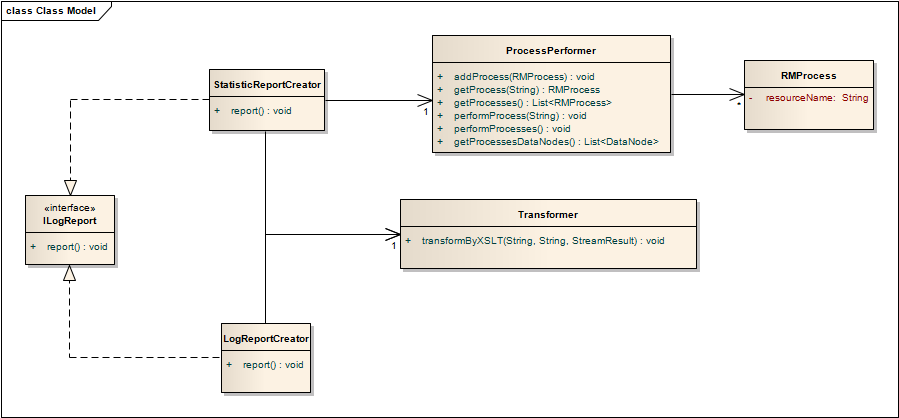
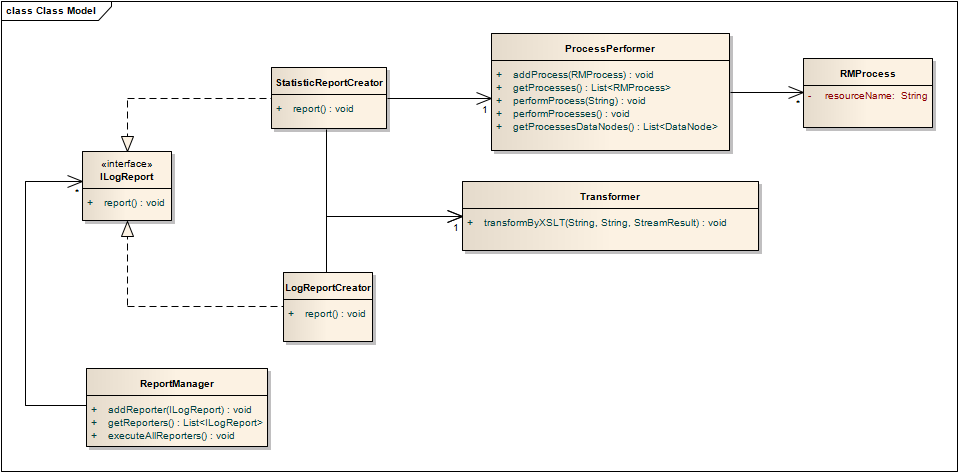
Added ReportManager, Modified XSL template for new XML format, minority changes, Schema statistics.png has changed

diff --git a/seage-experimenter/src/main/java/org/seage/experimenter/reporting/LogReportCreator.java b/seage-experimenter/src/main/java/org/seage/experimenter/reporting/LogReportCreator.java
@@ -13,20 +13,14 @@
  */
 package org.seage.experimenter.reporting;
 
-import com.rapidminer.RapidMiner;
 import java.io.File;
 import java.io.FileOutputStream;
 import java.io.FilenameFilter;
 import java.util.Arrays;
 import org.seage.data.file.FileHelper;
 import javax.xml.transform.stream.*;
-import com.rapidminer.Process;
-import com.rapidminer.example.ExampleSet;
-import com.rapidminer.operator.Operator;
-import java.util.Collection;
-import org.seage.data.DataNode;
-import org.seage.experimenter.ExampleSetConverter;
-import org.seage.logging.LogHelper;
+import java.util.logging.Level;
+import java.util.logging.Logger;
 //import org.seage.experimenter.ExampleSetConverter;
 
 /**
@@ -35,61 +29,28 @@ import org.seage.logging.LogHelper;
  */
 public class LogReportCreator implements ILogReport {
     
-    private static String _logPath = "output";
-    private static String _reportPath = "report";
-    private static String _csvHeader = "ExperimentID;ProblemID;AlgorithmID;InstanceID;ConfigID;SolutionValue;Time;";
-    private static final String XSL_TEMPLATE = "report2csv.xsl";
-    private static final String RAPIDMINER_PROCESS_FILE = "rm-report1-p1.rmp";
-    private static final String OUTPUT_CSV_FILE = "report.csv";
+    private static final String LOG_PATH            = "output";
+    private static final String REPORT_PATH         = "report";
+    private static final String XSL_TEMPLATE        = "report2csv.xsl";
+    private static final String OUTPUT_CSV_FILE     = "report.csv";    
+    private static final String CSV_HEADER          = "ExperimentID;ProblemID;AlgorithmID;InstanceID;ConfigID;SolutionValue;Time;";
+
+    public LogReportCreator() {}
     
-    public LogReportCreator()
-    {
-        RapidMiner.setExecutionMode( RapidMiner.ExecutionMode.EMBEDDED_WITHOUT_UI );//RapidMiner.ExecutionMode.EMBEDDED_WITHOUT_UI
-        RapidMiner.init();
-    }    
-   
+    @Override
     public void report() throws Exception
     {
         createReport();
-//        reportRapidMiner();
     }
     
-    private void reportRapidMiner() throws Exception
-    {        
-//        Process process = new Process( getClass().getResourceAsStream( RAPIDMINER_PROCESS_FILE ) );
-//        process.setProcessLocation( new FileProcessLocation( new File(".") ) );
-//        System.out.println(process.getRootOperator().createProcessTree(0));
-//                       System.out.println("RUN"); 
-//        process.run();
-
-//        Collection<Operator> ops = process.getAllOperators();
-//        ExampleSet ex = null;
-//
-//        for(Operator op : ops)
-//        {
-//            System.out.println(op.getName());
-//            if(op.getName().equals("Sort (2)"))
-//                ex = op.getOutputPorts().getPortByName("example set output").getData();
-//        }
-//        
-//        DataNode dn = ExampleSetConverter.convertToDataNode(ex);
-//        
-//        ExampleSet exampleSet = ExampleSetConverter.convertToExampleSet(dn);
-//        
-//        DataNode dn1 = ExampleSetConverter.convertToDataNode(exampleSet);
-//
-//        ExampleSet exampleSet1 = ExampleSetConverter.convertToExampleSet(dn1);
-//
-//        System.out.println(exampleSet1);
-    }
-
     private void createReport() throws Exception
     {
-        System.out.println("Creating reports ...");
+        Logger.getLogger(ProcessPerformer.class.getName()).log(Level.INFO, "Creating reports ...");
+        Logger.getLogger(ProcessPerformer.class.getName()).fine("Creating reports ...");
         
-        File logDir = new File(_logPath);
+        File logDir = new File(LOG_PATH);
         
-        File reportDir = new File(_reportPath);
+        File reportDir = new File(REPORT_PATH);
         
         if(reportDir.exists())
             FileHelper.deleteDirectory(reportDir);
@@ -120,7 +81,7 @@ public class LogReportCreator implements ILogReport {
             sb.append("p").append(i).append(";");
         }        
 
-        outputStream.getOutputStream().write( ( _csvHeader + sb.append("\n").toString() ).getBytes() );
+        outputStream.getOutputStream().write( ( CSV_HEADER + sb.append("\n").toString() ).getBytes() );
 
         for(String dirName : logDir.list(filter))
         {            
@@ -139,7 +100,7 @@ public class LogReportCreator implements ILogReport {
                 }
                 catch(Exception e)
                 {
-                    System.out.println(xmlPath);
+                    Logger.getLogger(ProcessPerformer.class.getName()).fine(xmlPath);
                 }
             }            
         }        

diff --git a/seage-experimenter/src/main/java/org/seage/experimenter/reporting/ProcessPerformer.java b/seage-experimenter/src/main/java/org/seage/experimenter/reporting/ProcessPerformer.java
@@ -34,36 +34,27 @@ public class ProcessPerformer {
     
     private String EXAMPLESET_OUTPUT_PORT = "example set output";
     
-    private HashMap<String, RMProcess> _processes;
+    private List<RMProcess> _processes;
     
     private List<ExampleSet> _exampleSets;
     
     public ProcessPerformer()
     {
-        _processes = new HashMap<String, RMProcess>();
+        _processes = new ArrayList<RMProcess>();
         _exampleSets = new ArrayList<ExampleSet>();
+        
         RapidMiner.setExecutionMode( RapidMiner.ExecutionMode.EMBEDDED_WITHOUT_UI );
         RapidMiner.init();
     } 
     
     public void addProcess(RMProcess process)
     {
-        if(_processes.containsKey(process.getResourceName()))
-        {
-            //vyhodit vyjimku
-        }
-        
-        _processes.put(process.getResourceName(), process);
-    }
-    
-    public RMProcess getProcess(String name)
-    {
-        return _processes.get(name);
+        _processes.add( process );
     }
     
     public List<RMProcess> getProcesses()
     {
-        return new ArrayList<RMProcess>(_processes.values());
+        return _processes;
     }
     
     public ExampleSet performProcess(String resourceName) throws Exception
@@ -74,31 +65,23 @@ public class ProcessPerformer {
         // TODO: B - Info only for debug, after that they'll be removed
         System.out.println(process.getRootOperator().createProcessTree(0));
         
-        Logger.getLogger(ProcessPerformer.class.getName()).log(Level.INFO, "RUN");
+        Logger.getLogger(ProcessPerformer.class.getName()).log(Level.INFO, "RapidMiner Process RUNS");
         Logger.getLogger(ProcessPerformer.class.getName()).fine("RapidMiner Process RUNS");
         process.run();
-        
+       
         Collection<Operator> operators = process.getAllOperators();
         
         ExampleSet exampleSet = null;
-
         
         // TODO: B - Always is taken next to last operator
         int counter = 1;
         for(Operator operator : operators)
         {
-            System.out.println(operator.getName());
-            System.out.println(operators.size() +" - " + counter);
-            if( (operators.size() - 1) == counter)
+            if( ( operators.size() - 1 ) == counter)
             {
-                System.out.println(operator.getName()+"-----");
                 exampleSet = operator.getOutputPorts().getPortByName( EXAMPLESET_OUTPUT_PORT ).getData( ExampleSet.class );
                 _exampleSets.add( exampleSet );
-                break;
             }
-//            
-//            if(operator.getName().equals("Sort (2)"))
-//                ex = operator.getOutputPorts().getPortByName("example set output").getData();
             
             ++counter;
         }
@@ -107,7 +90,7 @@ public class ProcessPerformer {
     
     public void performProcesses() throws Exception
     {
-        for(RMProcess process : _processes.values())
+        for(RMProcess process : _processes)
         {
             this.performProcess( process.getResourceName() );
         }

diff --git a/seage-launcher/src/main/java/org/seage/Launcher.java b/seage-launcher/src/main/java/org/seage/Launcher.java
@@ -22,6 +22,7 @@ import org.seage.experimenter.Experimenter;
 import org.seage.logging.LogHelper;
 import org.seage.experimenter.reporting.ILogReport;
 import org.seage.experimenter.reporting.LogReportCreator;
+import org.seage.experimenter.reporting.ReportManager;
 import org.seage.experimenter.reporting.StatisticReportCreator;
 import org.seage.temp.AlgorithmTester;
 import org.seage.temp.ClasspathTest;
@@ -102,11 +103,17 @@ public class Launcher {
         }
         
         if (args[0].equals("-report")) {
-            ILogReport reporter = new LogReportCreator();
-            reporter.report();
             
-            reporter = new StatisticReportCreator();
-            reporter.report();
+            ReportManager reportManager = new ReportManager();
+            reportManager.addReporter(new LogReportCreator());
+            reportManager.addReporter(new StatisticReportCreator());
+            
+            reportManager.executeAllReporters();
+//            ILogReport reporter = new LogReportCreator();
+//            reporter.report();
+//            
+//            reporter = new StatisticReportCreator();
+//            reporter.report();
             
             return;
         }

diff --git a/seage-experimenter/src/main/java/org/seage/experimenter/reporting/ReportManager.java b/seage-experimenter/src/main/java/org/seage/experimenter/reporting/ReportManager.java
@@ -1,0 +1,46 @@
+/*******************************************************************************
+ * Copyright (c) 2009 Richard Malek and SEAGE contributors
+ * All rights reserved. This program and the accompanying materials
+ * are made available under the terms of the Common Public License v1.0
+ * which accompanies this distribution, and is available at
+ * http://seage.sourceforge.net/license/cpl-v10.html
+ *
+ * Contributors:
+ *     Jan Zmatlik
+ *     - Initial implementation
+ */
+package org.seage.experimenter.reporting;
+
+import java.util.ArrayList;
+import java.util.List;
+
+/**
+ *
+ * @author zmatlja1
+ */
+public class ReportManager {
+    
+    List<ILogReport> _reporters;
+
+    public ReportManager()
+    {
+        this._reporters = new ArrayList<ILogReport>();
+    }
+    
+    public void addReporter(ILogReport reporter)
+    {
+        this._reporters.add( reporter );
+    }
+    
+    public List<ILogReport> getReporters()
+    {
+        return _reporters;
+    }
+    
+    public void executeAllReporters() throws Exception
+    {
+        for(ILogReport reporter : _reporters)
+            reporter.report();
+    }
+    
+}

diff --git a/seage-experimenter/src/main/java/org/seage/experimenter/reporting/StatisticReportCreator.java b/seage-experimenter/src/main/java/org/seage/experimenter/reporting/StatisticReportCreator.java
@@ -73,9 +73,10 @@ public class StatisticReportCreator implements ILogReport
         File inputDataDir = new File( INPUT_DATA_PATH );
         inputDataDir.mkdir();
         
+        int k = 0;
         for(DataNode dataNode : _processPerformer.getProcessesDataNodes())
         {
-            XmlHelper.writeXml(dataNode, inputDataDir.getPath() + "/" + dataNode.getValueStr("name") + ".xml");
+//            XmlHelper.writeXml(dataNode, inputDataDir.getPath() + "/" + (++k) + ".xml");
         }
         
         File reportDir = new File( REPORT_PATH );
@@ -86,10 +87,10 @@ public class StatisticReportCreator implements ILogReport
 
         StreamResult outputStream = new StreamResult( new FileOutputStream( outputDir ) );
   
-//        for(String fileName : inputDataDir.list())
-//        {
-//            Transformer.getInstance().transformByXSLT(inputDataDir.getPath() + "/" + fileName, XSLTEMPLATE, outputStream);
-//        }
+        for(String fileName : inputDataDir.list())
+        {
+            Transformer.getInstance().transformByXSLT(inputDataDir.getPath() + "/" + fileName, XSLTEMPLATE, outputStream);
+        }
         
     } 
     
